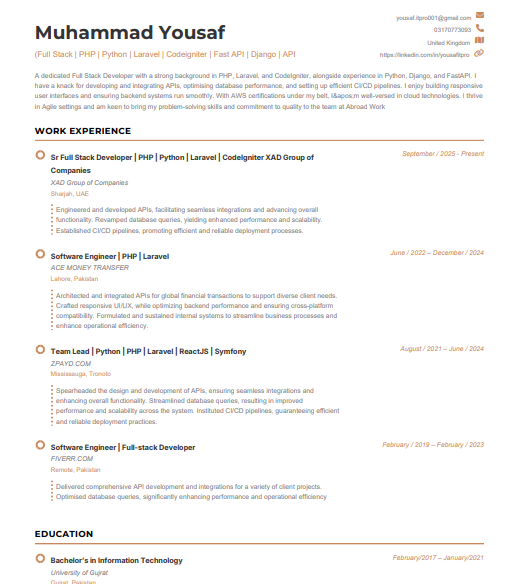
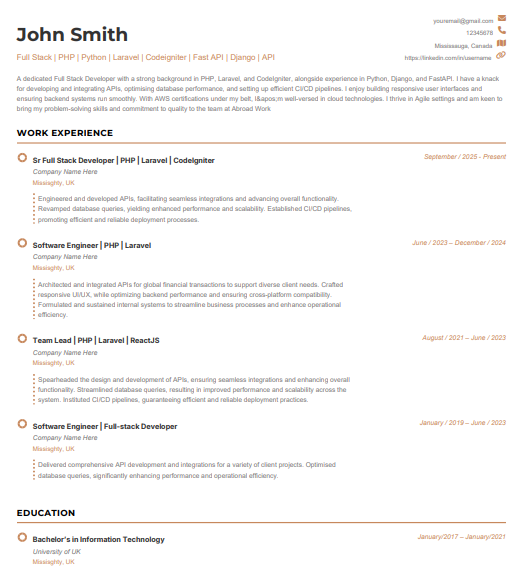
zzz

diff --git a/resources/views/zeecv/resume/components/template.blade.php b/resources/views/zeecv/resume/components/template.blade.php
@@ -1,6 +1,6 @@
       <!-- TEMPLATE TAB VIEW (Hidden by default) -->
         <div id="templateView" style="display: none;">
-          <div class="bg-white p-3 rounded shadow-sm">
+          {{-- <div class="bg-white p-3 rounded shadow-sm">
             <h6 class="font-weight-bold mb-3">Choose Layout & Styling</h6>
              <form class="mt-1" method="post" action="{{ route('resume.template.save') }}"  onsubmit="saveTemplate(event,this)">
                       @csrf
@@ -76,12 +76,12 @@ setTimeout(() => {
                     </form>
           
 
-          </div>
+          </div> --}}
           @include('zeecv.resume.components.templates')
         </div>
        
        @include('zeecv.resume.components.pay_and_unlock')
-        <script>
+        {{-- <script>
   function saveTemplate(event, form) {
     // 1. Prevent the default form submission
     event.preventDefault();
@@ -119,4 +119,4 @@ setTimeout(() => {
         }
     });
 }
-</script>
+</script> --}}
